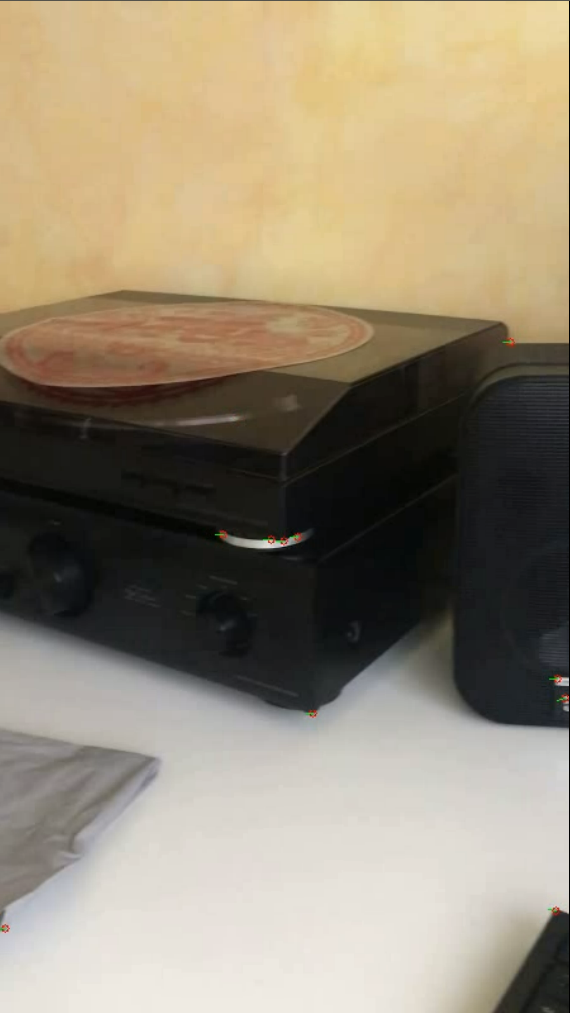
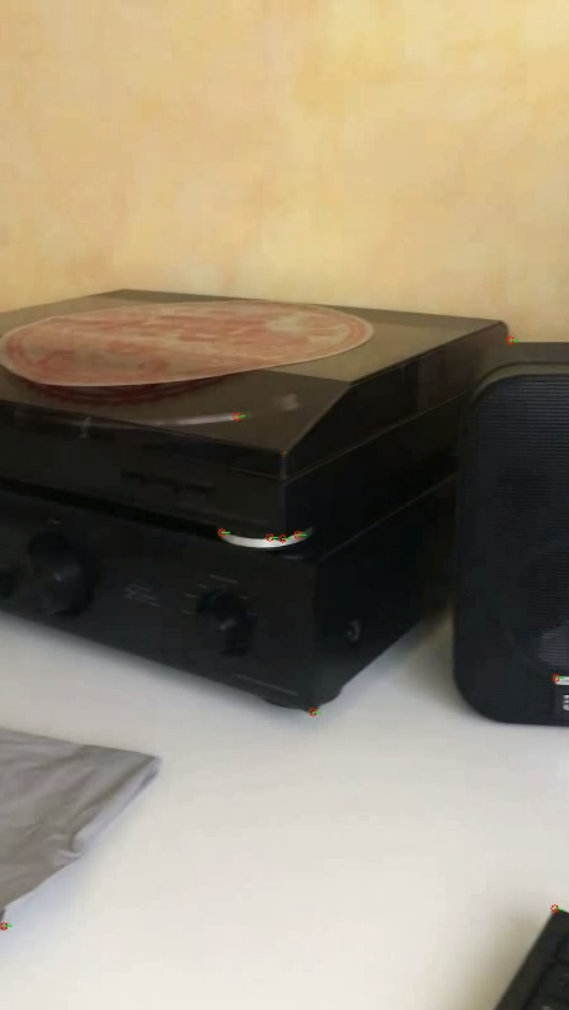
calculating OF with features from former frame instead of current frame.

diff --git a/optical_flow.py b/optical_flow.py
@@ -4,6 +4,11 @@ import cv2
 import numpy as np
 import matplotlib.pyplot as plt
 
+# choose a feature:
+FEATURE = 'Harris'	# 'Harris' or 'SIFT'
+OUTPUT_TO_FILE = True
+OUTPUT_FILE_NAME = '../../Videos/OF_trace_with_'+FEATURE+'.avi'
+
 # calculation of euclidian distance
 def eucl_dist(m, n, o, p):
 	return np.sqrt(m**2 + n**2 + o**2 + p**2)
@@ -20,38 +25,36 @@ lk_params = dict(winSize=(15,15), maxLevel=2, criteria=(cv2.TERM_CRITERIA_EPS | 
 # open object file
 file = cv2.VideoCapture('../../Videos/output.avi')
 fourcc = cv2.VideoWriter_fourcc(*'XVID')
-#out = cv2.VideoWriter('../../Videos/OF_trace_with_SIFT.avi', fourcc, 40.0, (450,800))
+if(OUTPUT_TO_FILE): out = cv2.VideoWriter(OUTPUT_FILE_NAME, fourcc, 40.0, (450,800))
 
 # SIFT feature detector
-sift = cv2.xfeatures2d.SIFT_create()
+if(FEATURE=='SIFT'):	sift = cv2.xfeatures2d.SIFT_create()
 
 while(file.isOpened()):
 	ret, frame = file.read()
 	if(ret):
 		frame_g = cv2.cvtColor(frame, cv2.COLOR_BGR2GRAY)
 		# do feature extraction
-		# 1) with Harris corner detector
-		points = cv2.goodFeaturesToTrack(frame_g, maxCorners, qualityLvl, minDist)
-		# 2) with SIFT feature detector
-		key_points, des = sift.detectAndCompute(frame_g, None)
-		key_points_for_LK = np.array([])
-		for kp in key_points:
-			key_points_for_LK = np.append(key_points_for_LK, [kp.pt[0],kp.pt[1]])
-		key_points_for_LK = np.float32(key_points_for_LK.reshape(int(len(key_points_for_LK)/2),1,2))
+		if(FEATURE=='Harris'):
+			# 1) with Harris corner detector
+			points = cv2.goodFeaturesToTrack(frame_g, maxCorners, qualityLvl, minDist)
+		elif(FEATURE=='SIFT'):
+			# 2) with SIFT feature detector
+			key_points, des = sift.detectAndCompute(frame_g, None)
+			# reshape results of SIFT detector for LK method calculation
+			points = np.array([])
+			for kp in key_points:
+				points = np.append(points, [kp.pt[0],kp.pt[1]])
+			points = np.float32(points.reshape(int(len(points)/2),1,2))
 		if(len(former_frame)):
-			# calculate Optical Flow with:
-			# 1) Harris corners
-			# p_op_flow, status, error = cv2.calcOpticalFlowPyrLK(former_frame, frame_g, points, None, **lk_params)
-			# 2) SIFT feature
-			p_op_flow, status, error = cv2.calcOpticalFlowPyrLK(former_frame, frame_g, key_points_for_LK, None, **lk_params)
-
-			# obviously all the errors are not equal/close, cause there is spatial information missing
-			# if we have another channel of 'depth', we can reconstruct the spatial relationship and estimate
+			# calculate Optical Flow with points we extracted:
+			p_op_flow, status, error = cv2.calcOpticalFlowPyrLK(former_frame, frame_g, former_points, None, **lk_params)
+			# obviously all the errors are not equal/close, cause there is spatial information missing if  
+			# we have another channel of 'depth', we can reconstruct the spatial relationship and estimate
 			# the 3D motion of camera(if motion_obj known)/object(if motion_obj known)
 			# print('Error between frames: \n'+str(error))
 			relevant_pts = p_op_flow[status==1]
-			#former_relevant_pts = points[status==1]
-			former_relevant_pts = key_points_for_LK[status==1]
+			former_relevant_pts = former_points[status==1]
 			it = 0
 			for i, (rel_pt, form_rel_pt) in enumerate(zip(relevant_pts, former_relevant_pts)):
 				x, y = rel_pt.ravel()
@@ -71,17 +74,19 @@ while(file.isOpened()):
 		for point in points:
 			cv2.circle(frame, (point[0][0], point[0][1]), 3, (0,0,255), 1)	# Harris features
 		'''
-		cv2.drawKeypoints(frame,key_points,frame)							# SIFT features
+		#cv2.drawKeypoints(frame,key_points,frame)							# SIFT features
 		if(len(former_frame)):												# optical flow trace
 			for i, (pt, f_pt) in enumerate(zip(relevant_pts, former_relevant_pts)):
+				cv2.circle(frame, (pt[0], pt[1]), 3, (0,0,255), 1)
 				cv2.line(frame, (pt[0],pt[1]), (f_pt[0],f_pt[1]), (0, 255, 0), 1)
 		cv2.imshow('Motion', frame)
-		#out.write(frame)
+		if(OUTPUT_TO_FILE): out.write(frame)
 		former_frame = frame_g
+		former_points = points
 	else:
 		break
 	if(cv2.waitKey(25) &0xFF == ord('q')):
 		break
 file.release()
-#out.release()
+if(OUTPUT_TO_FILE): out.release()
 cv2.destroyAllWindows()
